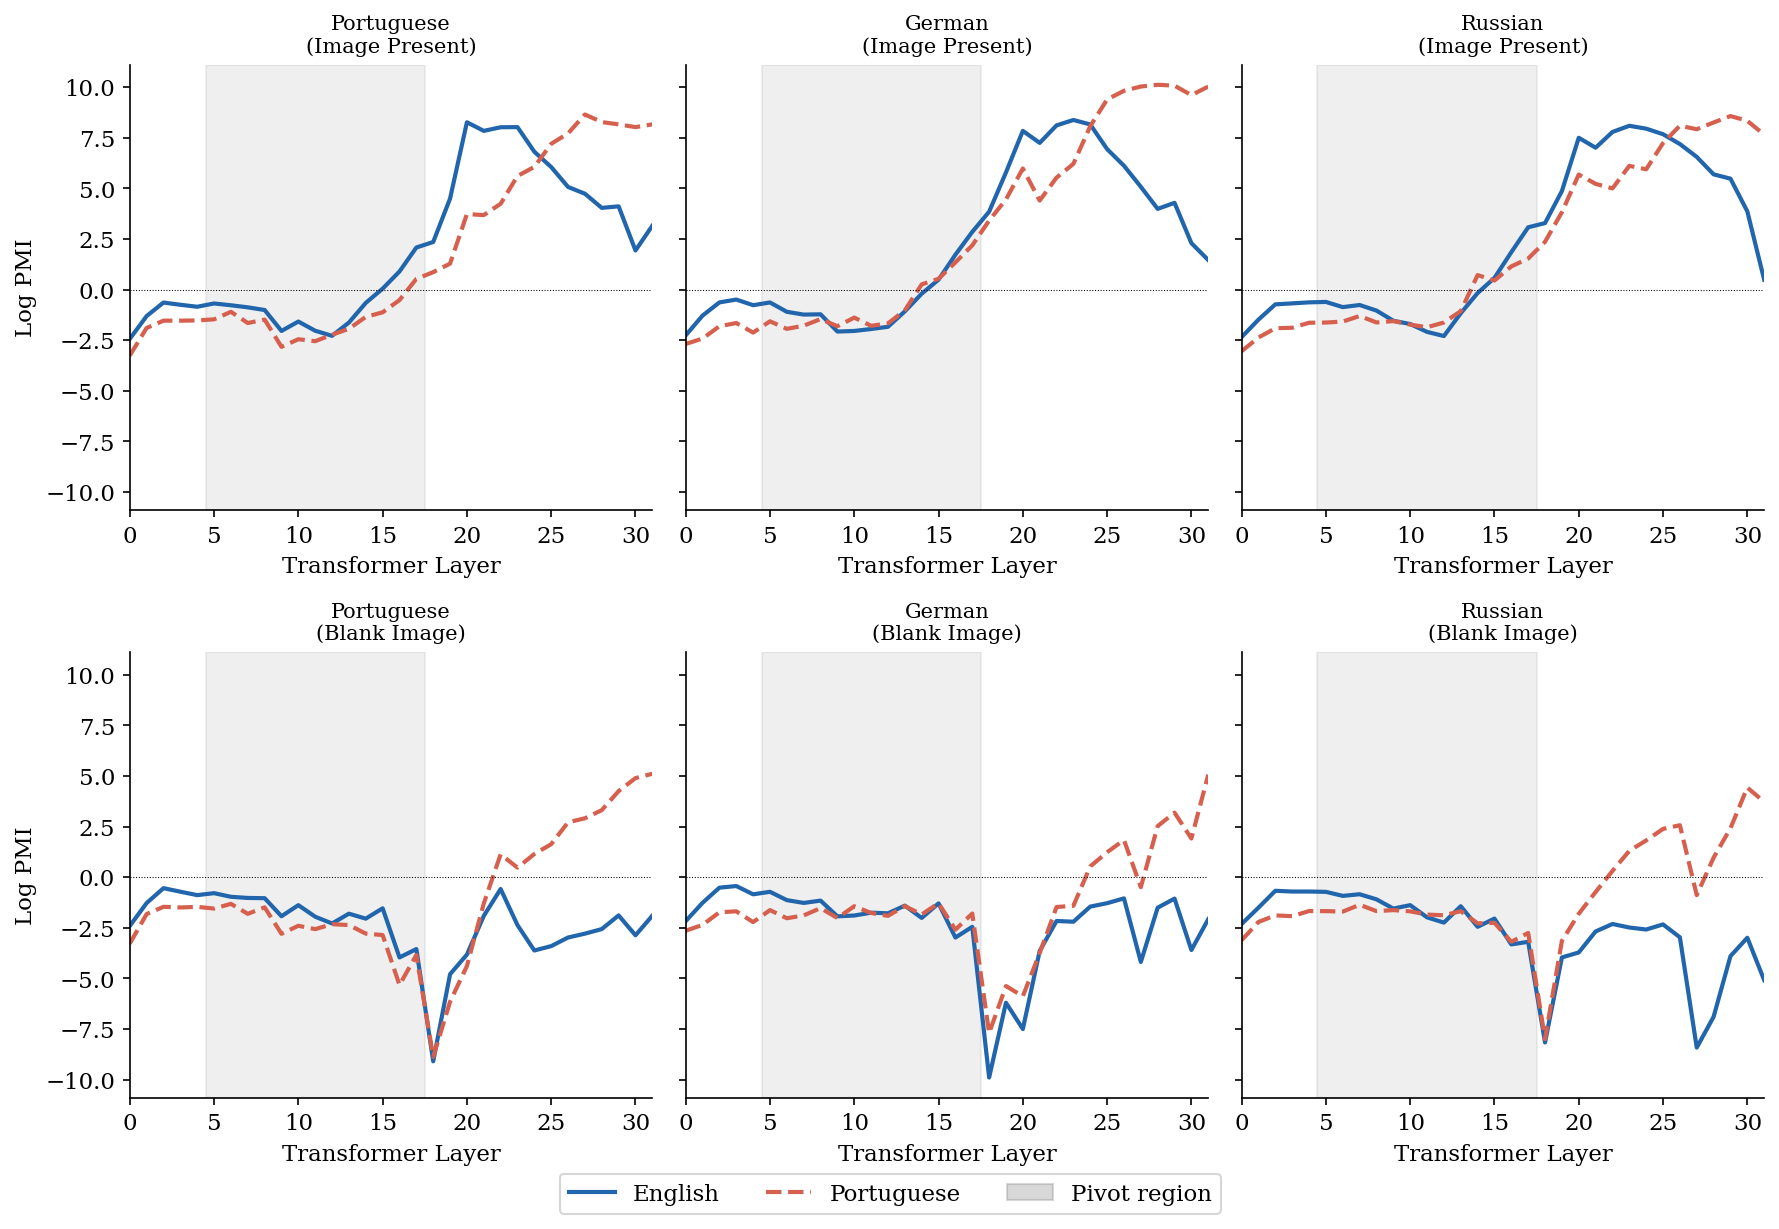
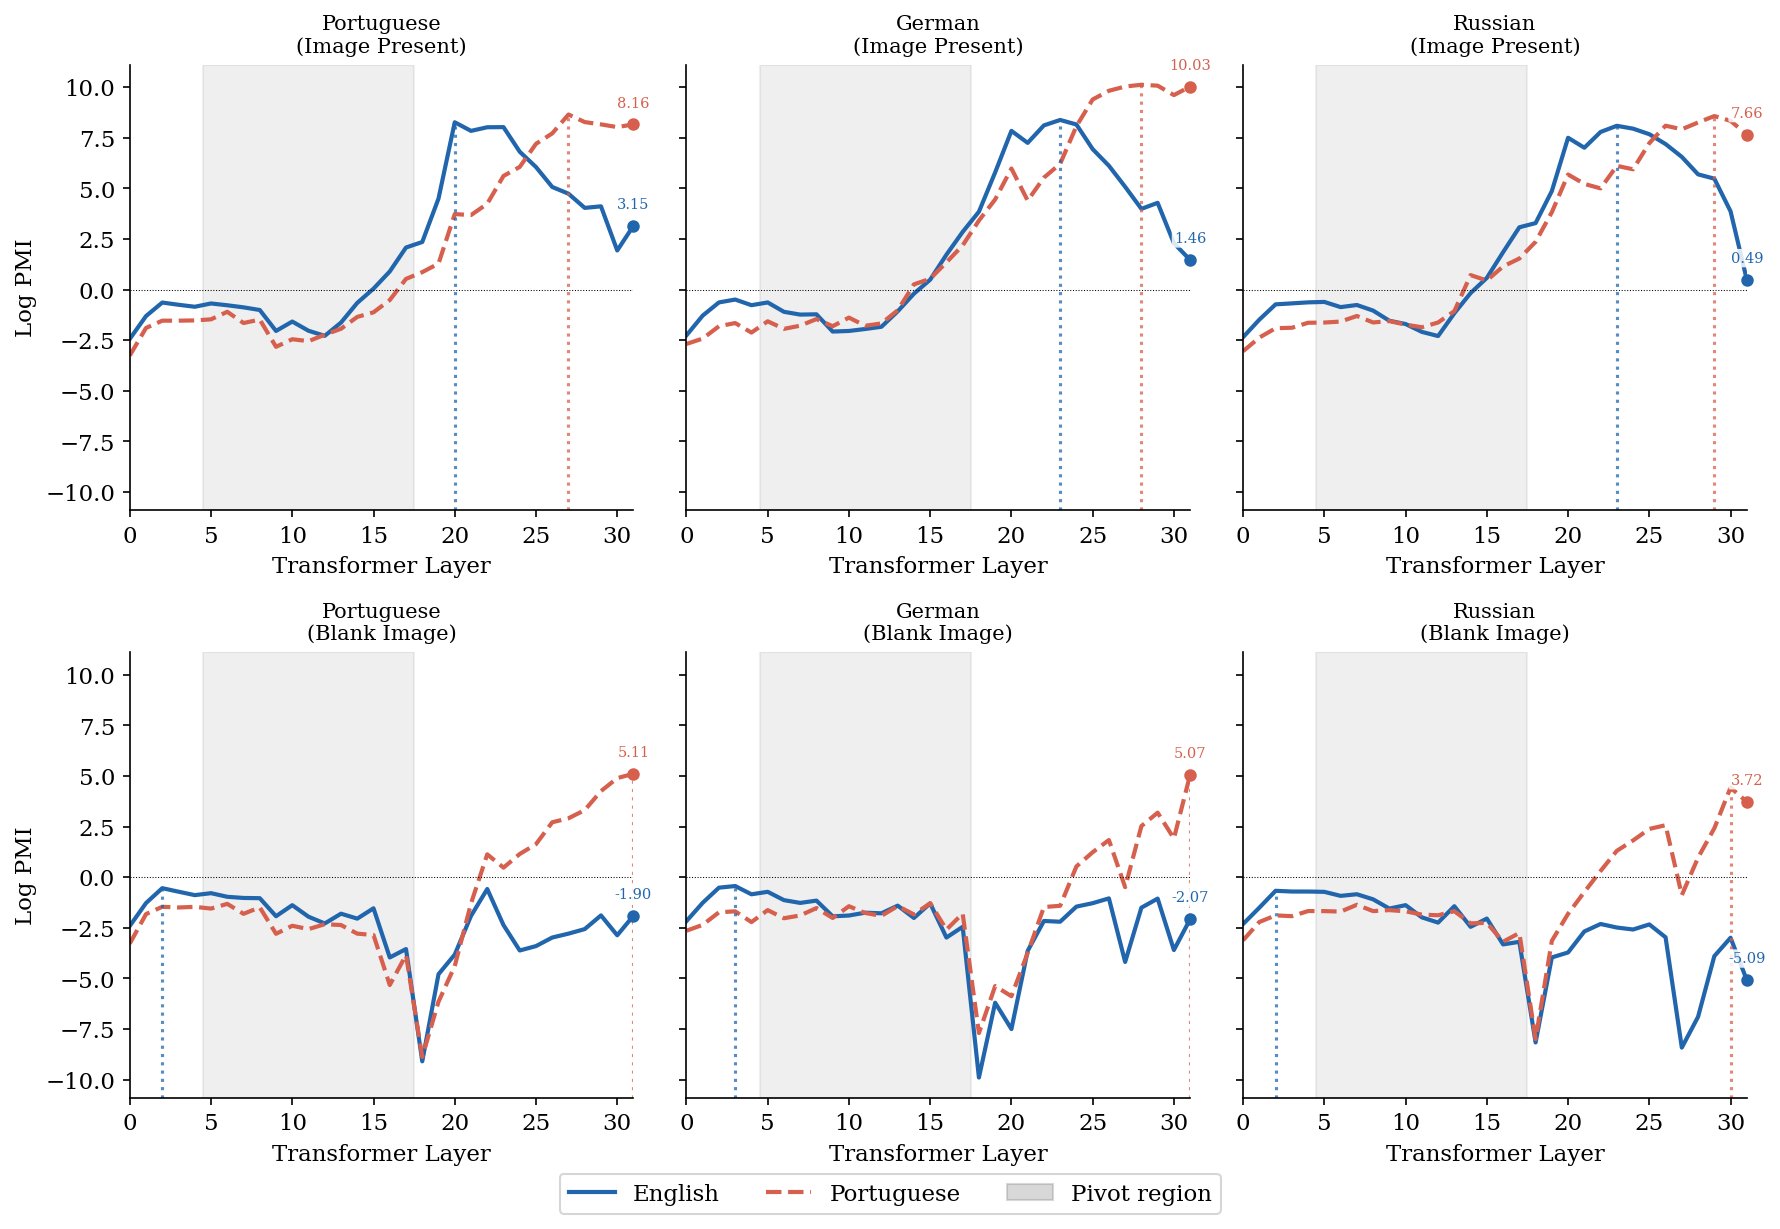
fig1 updated

diff --git a/figures/plot_fig1_logit_lens.py b/figures/plot_fig1_logit_lens.py
@@ -53,6 +53,36 @@ for cond in range(2):
         if cond == 0 and lang == 0:
             handles = [l1, l2, mpatches.Patch(color="gray", alpha=0.3, label="Pivot region")]
 
+# Second pass: add overlays after all curves are drawn so sharey ylim is finalized
+for cond in range(2):
+    for lang in range(N_LANGS):
+        ax = axes[cond, lang]
+        en_curve = mean_en[cond, lang, :]
+        tl_curve = mean_tl[cond, lang, :]
+        ylim = ax.get_ylim()
+
+        # vertical line from x-axis spine (ymin=0 fraction) to each curve's peak
+        for curve, color in [(en_curve, "#2166ac"), (tl_curve, "#d6604d")]:
+            peak_layer = int(np.argmax(curve))
+            peak_val = curve[peak_layer]
+            ymax_frac = (peak_val - ylim[0]) / (ylim[1] - ylim[0])
+            ax.axvline(peak_layer, ymin=0, ymax=ymax_frac, color=color,
+                       linewidth=1.5, linestyle=":", alpha=0.75)
+
+        # endpoint dot + value label at layer 31 — both above their dot
+        last_layer = 31
+        for curve, color in [(en_curve, "#2166ac"), (tl_curve, "#d6604d")]:
+            y_end = curve[last_layer]
+            ax.plot(last_layer, y_end, "o", color=color, markersize=5,
+                    zorder=5, clip_on=False)
+            ax.annotate(f"{y_end:.2f}", xy=(last_layer, y_end),
+                        xytext=(0, 7),
+                        textcoords="offset points",
+                        ha="center", va="bottom", fontsize=7, color=color,
+                        annotation_clip=False,
+                        bbox=dict(boxstyle="round,pad=0.15", facecolor="white",
+                                  edgecolor="none", alpha=0.85))
+
 fig.legend(handles=handles, loc="lower center", ncol=3, bbox_to_anchor=(0.5, -0.03))
 fig.tight_layout()
 
